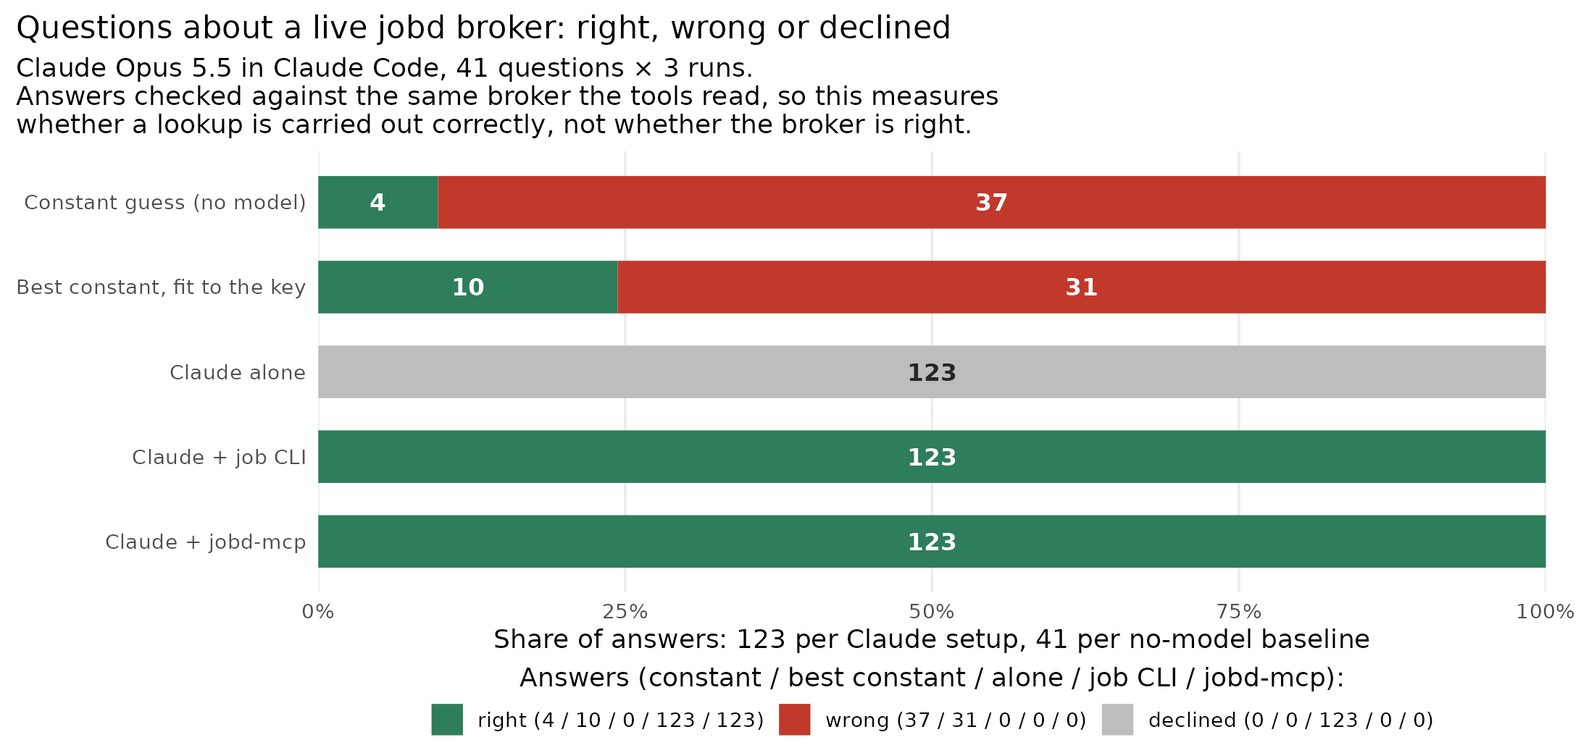
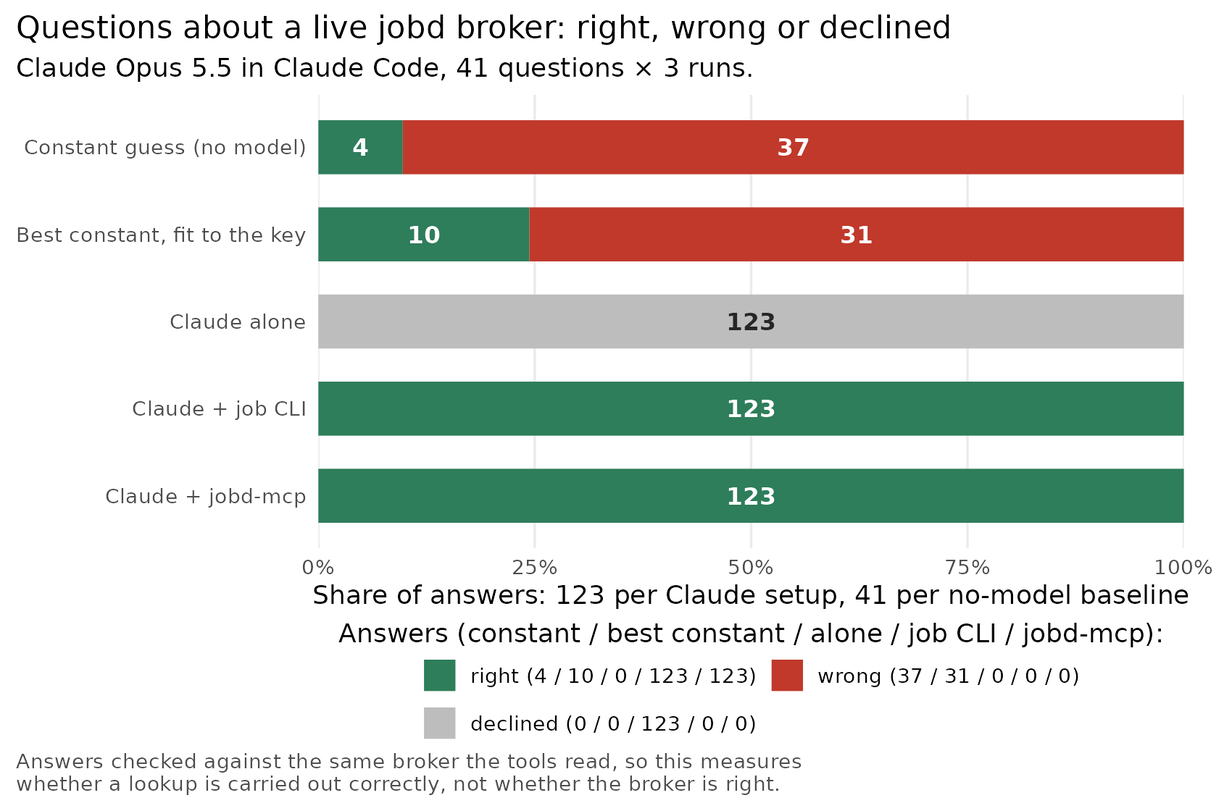
docs(readme): round 2 — 1,497 words, legible chart, plain opener
README 2,343 -> 1,497 words. Opener is one plain left-aligned sentence plus
the positioning; the separate intro paragraph, the closing comparison
paragraph and the Why-it-exists lead are gone. Badges: one row, all linked,
in the order CI, PyPI, Python, License (pypi/l), DOI, Glama, with the
mcp-name comment directly under them. Demo caption dropped.

Moved: the pueue/task-spooler command map and the full job submit synopsis
to docs/cli.md; the self-update network note to the runbook's continuous
deployment section. Security is three one-line controls plus the exempt
endpoints (tests/test_security_doc_parity.py needs /livez, /readyz, /metrics
and the word exempt in that section). Platform table uses words, not icons.

agent_qa.png re-rendered from the committed plot.R and the same scored.jsonl:
8.5 in wide instead of 11, the subtitle cut to one line (the key caveat moved
to the caption) and the legend in two rows, so axis and legend text are about
13 px at the README's 780 px. The unchanged plot.R reproduced the old PNG and
summary.tsv byte for byte first; the other two figures and summary.tsv are
unchanged by this edit.

diff --git a/README.md b/README.md
@@ -1,28 +1,18 @@
-<div align="center">
-
 # jobd
 
-**A self-hostable, GPU-aware job broker for a few machines of your own, with native MCP integration for LLM agents.**<br>
-Like [task-spooler](https://manpages.ubuntu.com/manpages/noble/man1/tsp.1.html) or [pueue](https://github.com/Nukesor/pueue), but across all your machines, and VRAM-aware.
+jobd is a job broker with an MCP server that lets AI agents submit, route and babysit jobs on a few machines of your own. Like [task-spooler](https://manpages.ubuntu.com/manpages/noble/man1/tsp.1.html) or [pueue](https://github.com/Nukesor/pueue), but across all your machines on [Tailscale](https://tailscale.com/) or a LAN: each job lands on a worker with the VRAM free, survives across sessions, and can be preempted cleanly, with no cloud, Kubernetes or Slurm.
 
 [![CI](https://github.com/musharna/jobd/actions/workflows/ci.yml/badge.svg)](https://github.com/musharna/jobd/actions/workflows/ci.yml)
 [![PyPI](https://img.shields.io/pypi/v/jobd)](https://pypi.org/project/jobd/)
-![Python](https://img.shields.io/pypi/pyversions/jobd)
-[![License: MIT](https://img.shields.io/badge/License-MIT-yellow.svg)](https://github.com/musharna/jobd/blob/main/LICENSE)
+[![Python](https://img.shields.io/pypi/pyversions/jobd)](https://pypi.org/project/jobd/)
+[![License](https://img.shields.io/pypi/l/jobd)](https://github.com/musharna/jobd/blob/main/LICENSE)
 [![DOI](https://zenodo.org/badge/DOI/10.5281/zenodo.21636369.svg)](https://doi.org/10.5281/zenodo.21636369)
 [![Glama](https://glama.ai/mcp/servers/musharna/jobd/badges/score.svg)](https://glama.ai/mcp/servers/musharna/jobd)
-
-</div>
-
 <!-- mcp-name: io.github.musharna/jobd -->
 
 <p align="center">
   <img src="https://raw.githubusercontent.com/musharna/jobd/main/docs/assets/demo.svg" alt="jobd in action: job fleet status shows four workers and their versions; a GPU job routes to the worker with enough free VRAM and streams back; a stdin batch submits two jobs at once; job logs -f follows one to completion" width="100%">
 </p>
-
-<p align="center"><sub>Demo recorded on jobd v0.5.30; output on later versions may differ.</sub></p>
-
-You have a few GPU machines (a workstation, a server, maybe a laptop) on [Tailscale](https://tailscale.com/) or a LAN, and no cloud, Kubernetes or Slurm, nor any wish for one. You want to send training runs and batch jobs from anywhere, have each land on whichever machine has the VRAM free, survive across sessions, and be preempted cleanly when something more important arrives. jobd is a single-process broker that turns those machines into one queue, and an LLM agent can drive it directly.
 
 ```bash
 # from any machine on your tailnet:
@@ -34,13 +24,11 @@ VRAM routing tracks one GPU per host: the worker reports free memory on GPU inde
 
 ## Why it exists
 
-Most schedulers assume a datacenter, and `nohup` or tmux give you no queue at all. jobd fills the gap between "ssh in and run it" and "stand up Slurm":
-
 - **VRAM-fit routing.** Each job goes to a worker whose live free VRAM, RAM, CPUs, capability tags and arch/OS fit it, instead of you guessing which box is free.
-- **Preemption with a checkpoint window.** A higher-priority job can preempt a running one: `SIGTERM`, a grace window, then `SIGKILL`. Each job gets a `JOBD_CHECKPOINT_DIR` to save into during that window; saving is the workload's job. A preempted job ends `preempted` and is not re-run; to resume, submit a new job pointed at the checkpoint. See [docs/preemption.md](https://github.com/musharna/jobd/blob/main/docs/preemption.md).
+- **Preemption with a checkpoint window.** A higher-priority job can preempt a running one: `SIGTERM`, a grace window for the workload to save into its `JOBD_CHECKPOINT_DIR`, then `SIGKILL`. A preempted job is not re-run; to resume, submit a new job pointed at the checkpoint ([docs/preemption.md](https://github.com/musharna/jobd/blob/main/docs/preemption.md)).
 - **Survives sessions.** Jobs live in the broker, not your shell. Submit, close the laptop, check back tomorrow.
-- **Agent-native.** An [MCP](https://modelcontextprotocol.io/) server lets an LLM agent (Claude Code, etc.) submit, monitor and babysit jobs as tool calls.
-- **Yours.** One broker process on a machine you own. No accounts, no telemetry, no per-GPU-hour billing; broker and workers talk only to each other and to your clients. Only the optional self-update scripts go online: `scripts/update-worker.sh` (installed on a timer by `job fleet add`) installs from PyPI, and `scripts/deploy-broker.sh` queries the GitHub API and pulls the image from GHCR.
+- **Agent-native.** An [MCP](https://modelcontextprotocol.io/) server lets an AI agent submit, monitor and babysit jobs as tool calls ([does it help?](#does-it-help)).
+- **Yours.** One broker process on a machine you own. No accounts, no telemetry, no per-GPU-hour billing. Only the optional self-update scripts go online ([runbook](https://github.com/musharna/jobd/blob/main/docs/runbook.md#continuous-deployment)).
 
 ## Why not just use…?
 
@@ -55,8 +43,6 @@ Most schedulers assume a datacenter, and `nohup` or tmux give you no queue at al
 | **Modal** | Serverless GPU compute | Runs on Modal's machines, not yours |
 | **Ray** | Distributed compute; Ray Jobs runs any shell command on a Ray cluster | You first stand up and run a Ray cluster |
 
-jobd needs one broker process plus a poller per host, with no containers, sudo or Kubernetes. Its niche is the 2–5-GPU homelab: multi-machine **live VRAM-fit** routing, a **preempt/checkpoint window** and a **native MCP interface**, a combination we haven't found in the tools above.
-
 ## Install
 
 ```bash
@@ -65,7 +51,7 @@ pip install "jobd[mcp]"        # adds the MCP server
 pip install "jobd[worker]"     # adds the worker daemon (jobd-worker)
 ```
 
-Requires Python ≥ 3.11. One package ships the broker (`jobd`), the CLI (`job`), the MCP server (`jobd-mcp`) and the worker (`jobd-worker`); the worker's extra dependencies (psutil, nvidia-ml-py) sit behind `[worker]`. `scripts/install-worker.sh` sets up a worker under `~/jobd-worker` with its own venv and a generated config.
+Requires Python ≥ 3.11. `scripts/install-worker.sh` sets up a worker under `~/jobd-worker` with its own venv and a generated config.
 
 ## Quickstart (single host)
 
@@ -99,55 +85,36 @@ Day-2 operations (health, draining a worker, upgrades, token rotation, backups) 
   <img src="https://raw.githubusercontent.com/musharna/jobd/main/docs/assets/architecture.svg" alt="Architecture: job CLI, jobd-mcp MCP tools, and HTTP/SSE clients talk to the jobd broker (FastAPI — queue, VRAM matcher, priorities, SQLite) over one tailnet; the broker dispatches via long-poll claims and heartbeats to workers A (24 GB GPU), B (8 GB GPU), and C (CPU-only)" width="640">
 </p>
 
-Workers **poll** the broker, so nothing connects in to a worker; the broker matches each job against live capacity and hands it back on the poll.
-
-- **Broker:** FastAPI + SQLite, the single source of truth. Holds the queue, runs the matcher, resolves per-project priorities and defaults, and serves a small HTTP API and an SSE stream.
-- **Workers:** one per host. Each advertises live capacity by heartbeat, claims jobs it can run, streams logs back and honors preemption. The argv you submit runs as-is (`shell=False`), not through a shell; the exceptions are `job submit --stdin` and the MCP `jobd_submit` tool, which run a command string as `bash -c <string>`.
-- **Clients:** the `job` CLI, `jobd-mcp`, or anything that speaks the HTTP API.
-
-Design decisions and the bugs behind them: [docs/ARCHITECTURE.md](https://github.com/musharna/jobd/blob/main/docs/ARCHITECTURE.md).
+The broker (FastAPI + SQLite) holds the queue, runs the matcher and resolves per-project priorities. Workers, one per host, **poll** it, so nothing connects in to a worker: each heartbeats its live capacity, claims jobs it can run, streams logs back and honors preemption. The argv you submit runs as-is (`shell=False`); `job submit --stdin` and the MCP `jobd_submit` tool are the exceptions and run a command string as `bash -c <string>`. Design notes: [docs/ARCHITECTURE.md](https://github.com/musharna/jobd/blob/main/docs/ARCHITECTURE.md).
 
 ## CLI
 
 ```
-job submit -p PROJ [--gpu] [--vram-required N] [--needs TAG]... [--count N | --sweep K=v1,v2]... [--wait] -- CMD...
-job list [--state STATE] [--project P] [--array A<id>]   # queue + recent jobs
-job status ID | A<id> [--watch]             # one job, or an array's aggregate
-job logs ID [-n BYTES]                      # tail captured output
-job wait ID                                 # block until terminal
-job cancel ID  /  job preempt ID            # stop a job
-job adopt --pid N -p PROJ [--gpu]           # register a process you already started (Linux)
-job workers                                 # fleet snapshot + health
+job submit -p PROJ [options] -- CMD...       # queue a job
+job list [--state STATE] [--project P]       # queue + recent jobs
+job status ID | A<id> [--watch]              # one job, or an array's aggregate
+job logs ID [-n BYTES]                       # tail captured output
+job wait ID                                  # block until terminal
+job cancel ID  /  job preempt ID             # stop a job
+job adopt --pid N -p PROJ [--gpu]            # track a process started outside jobd (Linux)
+job workers                                  # fleet snapshot + health
 job projects list | set NAME PRI | nudge NAME DELTA
-job audit [--project P] [--since 24h]       # event history
+job audit [--project P] [--since 24h]        # event history
 ```
 
-`--count N` and `--sweep KEY=v1,v2` submit a job array, `job submit --explain` prints the effective config without enqueuing anything, and `job adopt` makes a process started outside jobd hold its slot and VRAM until it exits. Examples and details: [docs/cli.md](https://github.com/musharna/jobd/blob/main/docs/cli.md).
-
-## Coming from pueue or task-spooler?
-
-Most verbs map directly; the queue just spans every machine you own.
-
-| You ran…                          | With jobd                                                                  |
-| --------------------------------- | -------------------------------------------------------------------------- |
-| `tsp <cmd>` / `pueue add -- <cmd>`| `job submit -p <project> -- <cmd>`                                          |
-| `tsp -w` / `pueue follow <id>`    | `job logs -f <id>` (or `job wait <id>`) — streams, exits with the job's own exit code |
-| `tsp` / `pueue status`            | `job list`                                                                  |
-| `pueue log <id>`                  | `job logs <id>`                                                             |
-| commands piped to `simple_gpu_scheduler` | `... \| job submit -p <project> --stdin` — one job per line, fleet-wide |
-| `pueue kill <id>`                 | `job cancel <id>`                                                           |
-| `pueue group` / parallelism limits| approximately: projects + priorities (`projects.yaml`); per-worker slots via `JOBD_WORKER_MAX_CONCURRENT_JOBS` |
-
-What you lose: no pause/resume, stash or editing of a queued job (cancel and resubmit instead), no named groups with their own parallelism limit, and if a worker dies mid-job, a running job not marked idempotent ends `orphaned` rather than being re-run. A broker and one worker on the same host otherwise behave like a network-reachable pueue.
+Job arrays and sweeps, `--explain` dry runs, `job adopt`, and a pueue/task-spooler command map: [docs/cli.md](https://github.com/musharna/jobd/blob/main/docs/cli.md).
 
 ## MCP / agent integration
 
-`jobd-mcp` exposes the queue as nine tools: `jobd_submit`, `jobd_status`, `jobd_logs`, `jobd_list`, `jobd_cancel`, `jobd_preempt`, `jobd_events`, `jobd_workers`, `jobd_worker_delete`. [docs/agent-cookbook.md](https://github.com/musharna/jobd/blob/main/docs/agent-cookbook.md) walks through fire-and-babysit polling, surviving preemption with checkpoints, sweeps, and asking the broker why a job won't schedule.
+`jobd-mcp` exposes the queue as nine tools: `jobd_submit`, `jobd_status`, `jobd_logs`, `jobd_list`, `jobd_cancel`, `jobd_preempt`, `jobd_events`, `jobd_workers`, `jobd_worker_delete`. [docs/agent-cookbook.md](https://github.com/musharna/jobd/blob/main/docs/agent-cookbook.md) walks through babysitting, preemption, sweeps, and asking why a job won't schedule.
 
 For [Claude Code](https://docs.claude.com/en/docs/claude-code):
 
 ```bash
-claude mcp add jobd --env JOBD_URL=http://127.0.0.1:8765 --env JOBD_API_TOKEN=<your-token> -- jobd-mcp
+claude mcp add jobd \
+  --env JOBD_URL=http://127.0.0.1:8765 \
+  --env JOBD_API_TOKEN=<your-token> \
+  -- jobd-mcp
 ```
 
 Any other MCP client:
@@ -166,16 +133,14 @@ Any other MCP client:
 }
 ```
 
-`JOBD_API_TOKEN` must match the broker's token, or every call returns 401; omit it only when the broker runs with `JOBD_ALLOW_NO_AUTH=1`.
-
-`examples/claude-code-hooks/` has optional Claude Code hooks that nudge (or hard-block) an agent toward submitting heavy commands through jobd, including a VRAM-aware GPU guard with `# NO_GPU` / `# CONCURRENT_OK` / `# VRAM=NGB` override markers.
+`JOBD_API_TOKEN` must match the broker's token, or every call returns 401. `examples/claude-code-hooks/` has optional hooks that nudge (or hard-block) an agent toward submitting heavy commands through jobd.
 
 ## Does it help?
 
-Yes for speed, not for accuracy: with jobd-mcp, Claude answered questions about a live broker about twice as fast as with the `job` CLI, and both got every answer right.
+Yes for speed, and equally accurate (123 of 123 each): with jobd-mcp, Claude answered questions about a live broker about twice as fast as with the `job` CLI.
 
 <p align="center">
-  <img src="https://raw.githubusercontent.com/musharna/jobd/main/benchmarks/agent_qa/agent_qa.png" alt="Bar chart of right, wrong and declined answers to 41 questions about a live jobd broker, 3 runs per question for each Claude setup. Constant guess with no model: 4 right, 37 wrong. Best constant fit to the answer key: 10 right, 31 wrong. Claude alone: all 123 declined. Claude with the job CLI: 123 of 123 right. Claude with jobd-mcp: 123 of 123 right." width="720">
+  <img src="https://raw.githubusercontent.com/musharna/jobd/main/benchmarks/agent_qa/agent_qa.png" alt="Bar chart of right, wrong and declined answers to 41 questions about a live jobd broker, 3 runs per question for each Claude setup. Constant guess with no model: 4 right, 37 wrong. Best constant fit to the answer key: 10 right, 31 wrong. Claude alone: all 123 declined. Claude with the job CLI: 123 of 123 right. Claude with jobd-mcp: 123 of 123 right." width="780">
 </p>
 
 We asked Claude Opus 5.5 41 read-only questions about a live broker, 3 times each. With the server the median answer took 6.7 s against 13.6 s (ratio 0.49, 95% CI 0.44 to 0.59) and used 1.1 fewer tool calls on average. Median cost was 24% lower but mean cost was the same, and the questions are too easy to rank the two setups on accuracy (McNemar p = 1).
@@ -184,30 +149,29 @@ Method, controls and limitations: [benchmarks/agent_qa](https://github.com/musha
 
 ## Supported platforms
 
-| Component                              | Linux   | macOS       | Windows              |
-| -------------------------------------- | ------- | ----------- | -------------------- |
-| **Broker** (`jobd`)                    | ✅      | ☑          | ☑ (WSL recommended) |
-| **CLI** (`job`) / **MCP** (`jobd-mcp`) | ✅      | ☑          | ☑                   |
-| **Worker** (`jobd-worker`)             | ✅ full | ⚠ degraded | untested             |
+| Component                              | Linux  | macOS    | Windows                    |
+| -------------------------------------- | ------ | -------- | -------------------------- |
+| **Broker** (`jobd`)                    | tested | expected | expected (WSL recommended) |
+| **CLI** (`job`) / **MCP** (`jobd-mcp`) | tested | expected | expected                   |
+| **Worker** (`jobd-worker`)             | tested | degraded | untested                   |
 
-✅ = CI-tested on Ubuntu, but CI has no GPU runner (NVIDIA/VRAM paths are tested against mocks) and tests that need a systemd `--user` scope skip there. ☑ = pure Python and expected to work, but not exercised by CI; please file an issue if it breaks. The worker's memory caps, process reaping and preemption use `systemd-run --user` scopes and cgroups; on a host without a systemd user instance it still runs jobs but silently drops those guarantees, which is fine for a single trusted box but not for hard resource isolation. GPU features need NVIDIA + `nvidia-ml-py`.
+CI runs on Ubuntu with no GPU runner (VRAM paths are tested against mocks), and without a systemd user instance the worker still runs jobs but drops its memory caps, process reaping and preemption guarantees.
 
 ## Configuration
 
-- **Config files**, all optional (with none, every job runs at the global default priority): `projects.yaml` sets per-project priority and submit defaults ([docs/projects-yaml.md](https://github.com/musharna/jobd/blob/main/docs/projects-yaml.md)), `profiles.yaml` defines named resource bundles (`--profile gpu-train-large`), and `classifier.yaml` suggests a profile from the command string. They are read from `JOBD_CONFIG_DIR` (default `/app/config`, the Docker image's path; set it when you run from pip). Examples are in this repo's `config/`, not in the pip package.
-- **Environment variables:** every `JOBD_*` variable is in [docs/configuration.md](https://github.com/musharna/jobd/blob/main/docs/configuration.md), which a CI test keeps in lockstep with the source.
-- **Concurrency:** a worker runs one job at a time unless you raise `JOBD_WORKER_MAX_CONCURRENT_JOBS`; jobs then bin-pack by their VRAM, RAM and CPU reservations, so a CPU-only job and a GPU job can run side by side ([docs/concurrency.md](https://github.com/musharna/jobd/blob/main/docs/concurrency.md)).
-- **Retention:** job logs and job records prune on separate clocks (`JOBD_LOG_RETENTION_DAYS`, `JOBD_JOB_RETENTION_DAYS`); see [docs/runbook.md](https://github.com/musharna/jobd/blob/main/docs/runbook.md#joblog-retention). Events: [docs/events.md](https://github.com/musharna/jobd/blob/main/docs/events.md).
+- **Config files** (`projects.yaml`, `profiles.yaml`, `classifier.yaml`) are all optional and read from `JOBD_CONFIG_DIR`; see [docs/projects-yaml.md](https://github.com/musharna/jobd/blob/main/docs/projects-yaml.md).
+- **Environment variables:** every `JOBD_*` variable is in [docs/configuration.md](https://github.com/musharna/jobd/blob/main/docs/configuration.md).
+- **Concurrency** (several jobs per worker): [docs/concurrency.md](https://github.com/musharna/jobd/blob/main/docs/concurrency.md). **Retention** of logs and job records: [docs/runbook.md](https://github.com/musharna/jobd/blob/main/docs/runbook.md#joblog-retention).
 
 ## Security
 
-The broker has no auth beyond a shared bearer token, so it is meant to run on a trusted network (loopback or a Tailscale tailnet), never on a public interface. Three stacked controls:
+Run the broker on loopback or a Tailscale tailnet, never a public interface. Three stacked controls:
 
-1. **Interface binding.** Set `JOBD_HOST` to `127.0.0.1` (the default) or a Tailscale CGNAT address (`100.64.0.0/10`), not `0.0.0.0`. The broker does not enforce this: it starts on any address and only warns (or refuses) when a non-loopback bind is combined with no-auth. The only check on the bind is a CI lint (`tests/test_deploy_lint.py`) on the shipped Docker deployment; at runtime, control 2 is what holds.
-2. **Source-IP check.** Whatever the bind, the broker answers `403` to any request whose source is neither loopback nor in `100.64.0.0/10` (`src/jobd/auth.py`). `JOBD_DISABLE_TAILNET_ACL=1` turns this off.
-3. **Bearer token.** Set `JOBD_API_TOKEN` (≥32 random bytes) on every broker, worker, CLI and MCP host. The broker refuses to start without it unless you set `JOBD_ALLOW_NO_AUTH=1`, which is for a loopback-only broker in local dev and tests. With a non-loopback `JOBD_HOST` it exposes an unauthenticated RCE endpoint to your whole tailnet (the broker logs a startup warning). Don't.
+1. **Bind:** `JOBD_HOST` is `127.0.0.1` by default; set it to a Tailscale address (`100.64.0.0/10`), never `0.0.0.0`. The broker does not enforce this.
+2. **Source IP:** requests from outside loopback and `100.64.0.0/10` get `403` (`JOBD_DISABLE_TAILNET_ACL=1` turns this off).
+3. **Token:** every host sets `JOBD_API_TOKEN`; `JOBD_ALLOW_NO_AUTH=1` is for a loopback-only broker, and on any other bind exposes unauthenticated code execution to your tailnet.
 
-**`/livez`, `/readyz` and `/metrics` are exempt from both the source-IP check and the token**, because a generic HTTP monitor cannot send a token. `/metrics` publishes the broker version, job counts by state, and every worker's hostname and version: no commands, cwd, env or project names, but enough to fingerprint the fleet. For these three the `JOBD_HOST` bind is load-bearing, not defense in depth: port-forward the broker and you publish that inventory. Full table: [Unauthenticated surface](https://github.com/musharna/jobd/blob/main/docs/security.md#unauthenticated-surface). Threat model and token rotation: [docs/security.md](https://github.com/musharna/jobd/blob/main/docs/security.md).
+`/livez`, `/readyz` and `/metrics` are exempt from both the source-IP check and the token; `/metrics` shows every worker's hostname and version, so don't port-forward the broker. Threat model and token rotation: [docs/security.md](https://github.com/musharna/jobd/blob/main/docs/security.md).
 
 ## License
 

diff --git a/docs/cli.md b/docs/cli.md
@@ -1,6 +1,12 @@
-# CLI notes: arrays, adoption, dry runs
+# CLI notes: arrays, adoption, dry runs, coming from pueue
 
 The command summary is in the [README](../README.md#cli); `job <command> --help` has every flag.
+
+## Submit
+
+```
+job submit -p PROJ [--gpu] [--vram-required N] [--needs TAG]... [--count N | --sweep K=v1,v2]... [--wait] -- CMD...
+```
 
 ## Dry-run a submit
 
@@ -33,3 +39,19 @@ job submit -p train --sweep lr=0.1,0.01 --sweep seed=1,2,3 \
 ```
 
 `--sweep` and `--count` are mutually exclusive, the product is capped at 1000 members, and `i` is reserved as an axis key. Substitution is a literal `{key}` replace (not `str.format`), so JSON literals and shell braces in the command pass through untouched.
+
+## Coming from pueue or task-spooler
+
+Most verbs map directly; the queue just spans every machine you own.
+
+| You ran…                          | With jobd                                                                  |
+| --------------------------------- | -------------------------------------------------------------------------- |
+| `tsp <cmd>` / `pueue add -- <cmd>`| `job submit -p <project> -- <cmd>`                                          |
+| `tsp -w` / `pueue follow <id>`    | `job logs -f <id>` (or `job wait <id>`) — streams, exits with the job's own exit code |
+| `tsp` / `pueue status`            | `job list`                                                                  |
+| `pueue log <id>`                  | `job logs <id>`                                                             |
+| commands piped to `simple_gpu_scheduler` | `... \| job submit -p <project> --stdin` — one job per line, fleet-wide |
+| `pueue kill <id>`                 | `job cancel <id>`                                                           |
+| `pueue group` / parallelism limits| approximately: projects + priorities (`projects.yaml`); per-worker slots via `JOBD_WORKER_MAX_CONCURRENT_JOBS` |
+
+What you lose: no pause/resume, stash or editing of a queued job (cancel and resubmit instead), no named groups with their own parallelism limit, and if a worker dies mid-job, a running job not marked idempotent ends `orphaned` rather than being re-run. A broker and one worker on the same host otherwise behave like a network-reachable pueue.

diff --git a/changelog.d/readme-polish-2026-10-18.changed.md b/changelog.d/readme-polish-2026-10-18.changed.md
@@ -1,1 +1,1 @@
-- **README is about 30% shorter.** "Does it help?" now shows the benchmark chart. Job arrays, `--explain` and `job adopt` moved to `docs/cli.md`; concurrency (multislotting) moved to `docs/concurrency.md`; the architecture diagram's mermaid source moved to `docs/ARCHITECTURE.md`. The README's retention section, which said job logs are kept forever, is replaced by a pointer to the runbook (logs are pruned after 60 days by default).
+- **README is less than half as long.** "Does it help?" now shows the benchmark chart, re-rendered narrower (8.5 in, one-line subtitle) so its text is legible at README width; data and counts are unchanged. Job arrays, `--explain`, `job adopt`, the full `job submit` synopsis and the pueue/task-spooler command map moved to `docs/cli.md`; concurrency (multislotting) to `docs/concurrency.md`; the architecture diagram's mermaid source to `docs/ARCHITECTURE.md`; the self-update network note to the runbook. The README's retention section, which said job logs are kept forever, is replaced by a pointer to the runbook (logs are pruned after 60 days by default).

diff --git a/docs/runbook.md b/docs/runbook.md
@@ -124,6 +124,12 @@ storing a tailnet auth key and an SSH key in GitHub and letting CI reach into th
 homelab. Nothing in this path needs a secret, and nothing outside the network can
 trigger a deploy.
 
+These self-update scripts are the only parts of jobd that go online; otherwise the
+broker and workers talk only to each other and to your clients.
+`scripts/update-worker.sh` (which `job fleet add` installs on a timer) installs from
+PyPI, and `scripts/deploy-broker.sh` queries the GitHub API and pulls the image from
+GHCR.
+
 ```bash
 # One-time install on the broker host:
 sudo cp scripts/deploy-broker.sh /usr/local/bin/jobd-deploy && sudo chmod +x /usr/local/bin/jobd-deploy
